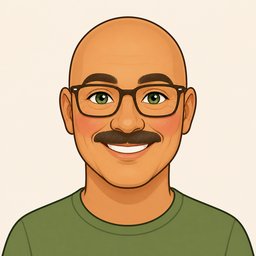
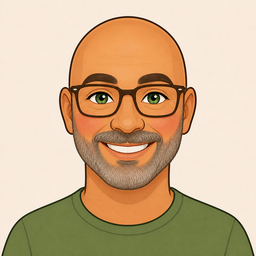
MIN HU: differentiate two look-alike characters
Two pairs were near-identical (only one subtle feature apart, unreadable on the
board): ġanni/kelinu differed only in hair shade, lolli/ġużeppi only in eye
colour. Gave each a bold visible difference — kelinu now has a moustache,
ġużeppi a full grey beard — and regenerated their portraits (Codex, style-matched
to the reference) to match. Roster now has 0 exact duplicates and 0 pairs
differing by a single feature. Build 269.

Claude-Session: https://claude.ai/code/session_01Q55X5n8LA6xgNosSpJws7r

diff --git a/sw.js b/sw.js
@@ -2,7 +2,7 @@
    Deliberately narrow: it never touches cross-origin requests and never
    touches range requests, because a greedy SW broke a previous project.
    Bump CACHE on every deploy. */
-const CACHE = 'karti-v268';
+const CACHE = 'karti-v269';
 /* ── THE SHELL, NOT THE GAME ─────────────────────────────────────────────────
    This list used to be 205 entries / ~24 MB — every game module and every
    per-game portrait — so a first install (and EVERY version bump) re-fetched

diff --git a/index.html b/index.html
@@ -2365,7 +2365,7 @@ window.KARTI_THEME = (function(){
    over a MessageChannel, and the answer comes from the script iOS actually
    activated — not from the server, not from a constant. Keep BUILD in step
    with CACHE in sw.js (bump both on every deploy). */
-var KARTI_BUILD = 268;
+var KARTI_BUILD = 269;
 window.KARTI_BUILD = KARTI_BUILD;
 window.swVersion = function(){
   return new Promise(function(resolve){
